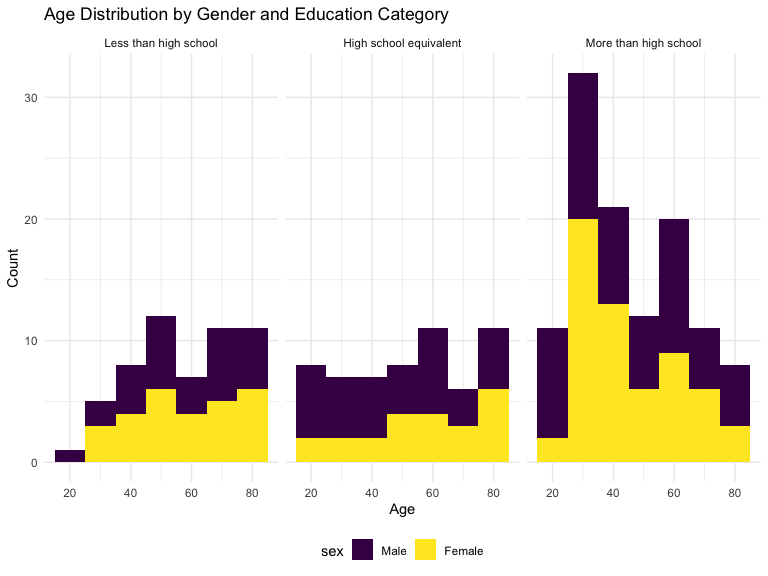
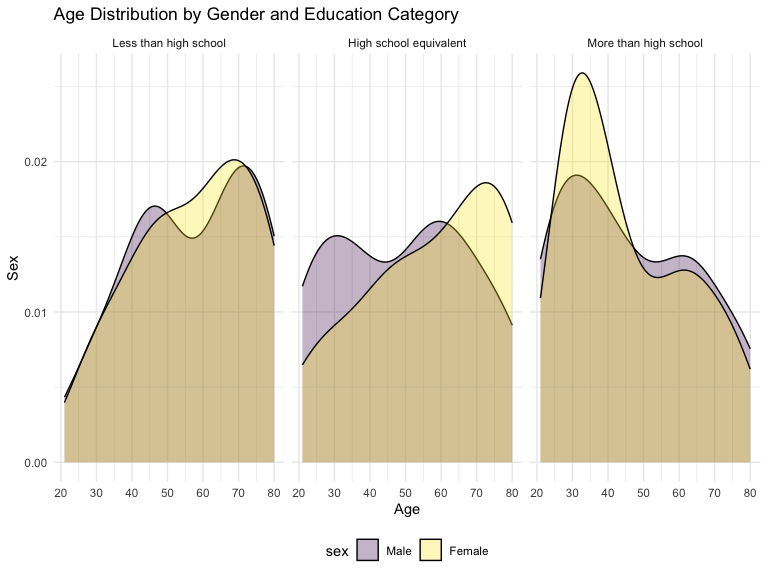
Edit style and figures

diff --git a/p8105_hw3_ys3766.md b/p8105_hw3_ys3766.md
@@ -3,7 +3,7 @@ p8105_hw3_ys3766
 Yifan Shi
 2024-10-13
 
-Problem 1
+# Problem 1
 
 ``` r
 data("ny_noaa")
@@ -107,7 +107,9 @@ another cluster of station see 45mm of snow, and another group see
 around 78mm of snow. This is likely due to the conversion from inch to
 metric, as 1 inch=25.4mm
 
-Problem 2 Import, tidy, merge
+# Problem 2
+
+Import, tidy, merge
 
 ``` r
 demo_df = 
@@ -188,21 +190,7 @@ education category
 ``` r
 nhanes_df %>% 
   ggplot(aes(x = age, fill = sex))+
-  geom_histogram(binwidth = 10)+
-  labs(
-    title = "Age Distribution by Gender and Education Category",
-    x = "Age",
-    y = "Count"
-  )+
-  facet_grid(. ~ education)
-```
-
-<img src="p8105_hw3_ys3766_files/figure-gfm/unnamed-chunk-8-1.png" width="90%" />
-
-``` r
-nhanes_df %>% 
-  ggplot(aes(x = age, y = sex, fill = sex))+
-  geom_density_ridges(alpha = .3)+
+  geom_density(alpha = .3)+
   facet_grid(. ~ education)+
   scale_x_continuous(breaks = seq(from = 0, to = 100, by = 10)) +
   labs(
@@ -212,17 +200,11 @@ nhanes_df %>%
   )
 ```
 
-    ## Picking joint bandwidth of 7.91
+<img src="p8105_hw3_ys3766_files/figure-gfm/unnamed-chunk-8-1.png" width="90%" />
 
-    ## Picking joint bandwidth of 9.03
-
-    ## Picking joint bandwidth of 7.15
-
-<img src="p8105_hw3_ys3766_files/figure-gfm/unnamed-chunk-8-2.png" width="90%" />
-
-This histogram and the density ridge plot provide visualization of age
-distribution by gender and education levels. The age distributions are
-generally centered around middle age.
+This density plot provide visualization of age distribution by gender
+and education levels. The age distributions are generally centered
+around middle age.
 
 For less than high school category, the distribution for females shows a
 peak at around 70 years old, and the distribution shows bimodal with a
@@ -324,7 +306,7 @@ of the day females have hgher activity level. More than high school have
 slightly higher activity level than the rest two groups, and more
 spikes.
 
-Problem 3
+# Problem 3
 
 Load, tidy and combine the datasets
 
@@ -421,11 +403,11 @@ citibike %>%
   group_by(year, month, member_casual) %>% 
   summarise(total_rides = n(), .groups = 'drop') %>% 
     knitr::kable(
-    col.names = c("Year", "Month", "Member Type", "Total rides")
+    col.names = c("Year", "Month", "Member Type", "Total Rides")
     )
 ```
 
-| Year | Month   | Member Type | Total rides |
+| Year | Month   | Member Type | Total Rides |
 |:-----|:--------|:------------|------------:|
 | 2020 | January | casual      |         984 |
 | 2020 | January | member      |       11436 |
@@ -546,7 +528,7 @@ that lead to quicker trip. Classic bikes shows wider distribution of
 ride duration, especially among casual riders, indicating the
 variability in how they are used.
 
-Seasonally, the dsitribution does not change significantly between
+Seasonally, the distribution does not change significantly between
 January and July for members. There appears to be a slight increase in
 the duration of rides for casual riders in July, possibly due to more
 favourable weather conditions encouraging longer rides.
